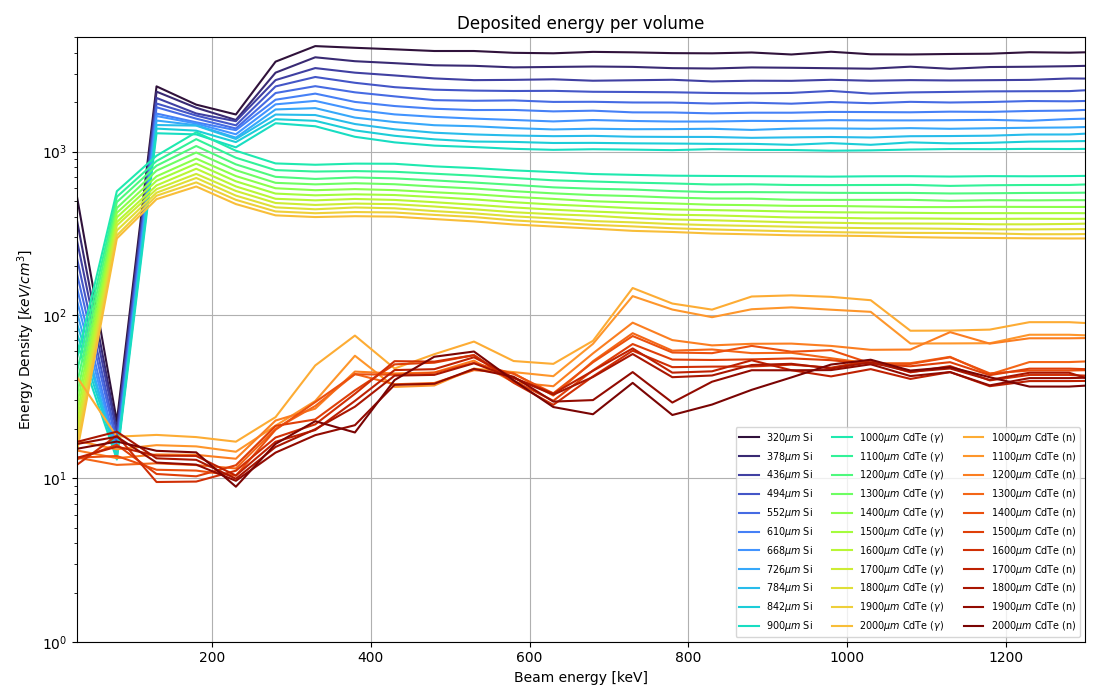
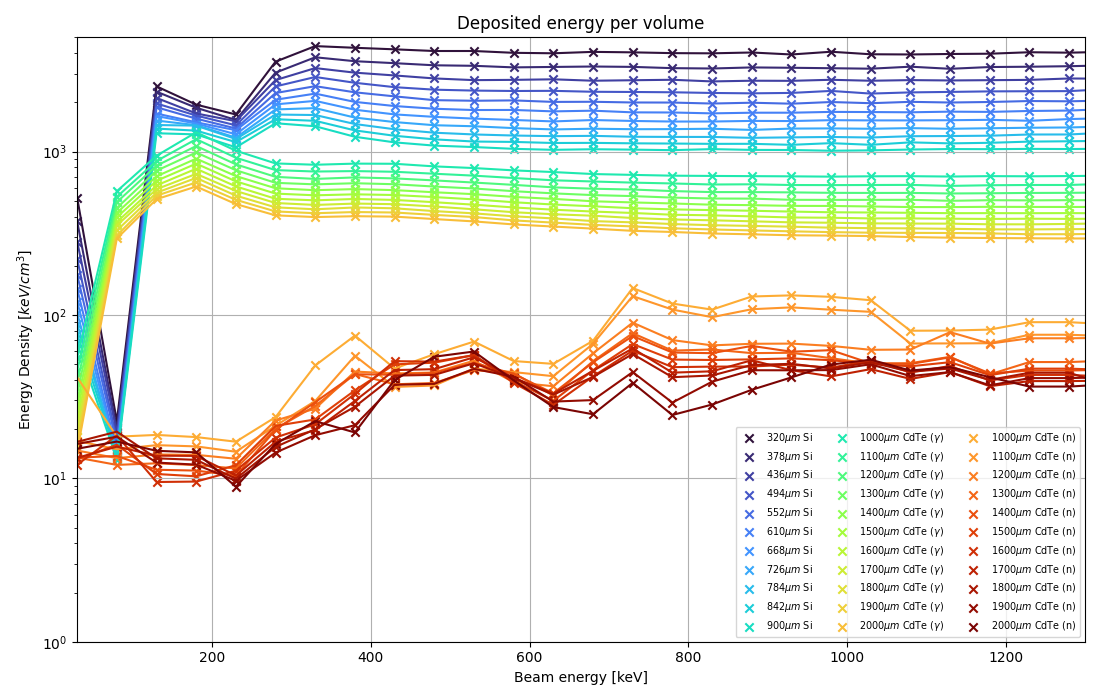
minor touch-ups

diff --git a/plot_energy_and_displacements.py b/plot_energy_and_displacements.py
@@ -24,15 +24,16 @@ def plot_displacements(results, bulk, identifier, normalization_factor, colorlis
     for b in range(len(bulk)):
         data = results[results['Thickness'] == bulk[b]]
         data = data.sort_values('Energy')
-        plt.plot(data['Energy'], data['Displacements'] / normalization_factor[b], label=str(bulk[b]) + r'$\mu m$ ' + identifier, color=colorlist[b])
+        plt.scatter(data['Energy'], data['Displacements'] / normalization_factor[b], marker='x',  label=str(bulk[b]) + r'$\mu m$ ' + identifier, color=colorlist[b])
+        plt.plot(data['Energy'], data['Displacements'] / normalization_factor[b], color=colorlist[b])
     plt.xlabel('Beam energy [keV]')
     #plt.ylabel('Displacements per atom')
-    plt.ylabel(r'Displacements/$cm³$')
+    plt.ylabel(r'Displacements  [$1/cm^3$]')
     plt.grid()
     plt.xlim(30, 1300)
     plt.ylim(ylim)
     plt.yscale('log')
-    plt.legend(fontsize='x-small', loc="center right", ncol=3, bbox_to_anchor=(1, 0.46))
+    plt.legend(fontsize='x-small', loc="center right", ncol=3, bbox_to_anchor=(1, 0.47))
     plt.title('Radiation damage')
     plt.tight_layout()
     plt.savefig(os.path.join('pics', 'displacements.png'))
@@ -41,7 +42,8 @@ def plot_energy_depositions(results, bulk, identifier, normalization_factor, col
     for b in range(len(bulk)):
         data = results[results['Thickness'] == bulk[b]]
         data = data.sort_values('Energy')
-        plt.plot(data['Energy'], data['Energydeposit'] / normalization_factor[b], label=str(bulk[b]) + r'$\mu m$ ' + identifier, color=colorlist[b])
+        plt.scatter(data['Energy'], data['Energydeposit'] / normalization_factor[b], marker='x', label=str(bulk[b]) + r'$\mu m$ ' + identifier, color=colorlist[b])
+        plt.plot(data['Energy'], data['Energydeposit'] / normalization_factor[b], color=colorlist[b])
     plt.xlabel('Beam energy [keV]')
     plt.ylabel(r'Energy Density [$keV/cm^3$]')
     plt.grid()
@@ -53,7 +55,7 @@ def plot_energy_depositions(results, bulk, identifier, normalization_factor, col
     plt.tight_layout()
     plt.savefig(os.path.join('pics', 'deposited_energies.png'))
 
-# NOTE: only works if the scored region covers the bulk onlcovers the bulk only
+# NOTE: works if the scored region covers the bulk only
 # N = N_A * n
 # N = N_A * V*rho/M
 # N = N_A * width*height*depth * rho / M
@@ -78,6 +80,12 @@ plot_energy_depositions(cdte, bulks_cdte, r'CdTe ($\gamma$)', pixel_volume_cdte,
 plot_energy_depositions(cdteneutron, bulks_cdte, 'CdTe (n)', pixel_volume_si, colorlist[22:33])
 plt.show()
 
+
+
+'''
+Create individual images of each case
+'''
+
 files = [f for f in os.listdir('.') if os.path.isfile(f) and '.dat' in f and 'doslev' not in f]
 #files = sorted(files)
 
@@ -87,14 +95,13 @@ if not os.path.exists('pics_displacement'):
 if not os.path.exists('pics_energy_deposit'):
     os.makedirs('pics_energy_deposit')
 
-
 cmap = copy.copy(mpl.cm.get_cmap('gnuplot'))
 cmap.set_under('k')
 cmap.set_over('w')
 
 failed = []
-#for f in tqdm(files):
-for f in files[:3]:
+for f in tqdm(files):
+#for f in files[:3]:
     img = np.genfromtxt(f)
     if len(img[:,3]) == 40401:
         img = img[:,2].reshape(201,201).transpose()

diff --git a/plot_fluence.py b/plot_fluence.py
@@ -15,11 +15,11 @@ for f in tqdm(files):
     fig = plt.figure()
     bulk, thickness, energy= f.split('-')
     if bulk == 'cdteneutron':
-        plt.title(f'Particle fluence: {thickness}$\mu$m CdTe bulk, {energy}keV neutron beam')
+        plt.title(fr'Particle fluence: {thickness}$\mu m$ CdTe bulk, {energy}keV neutron beam')
     elif bulk == 'cdte':
-        plt.title(f'Particle fluence: {thickness}$\mu$m CdTe bulk, {energy}keV photon beam')
+        plt.title(fr'Particle fluence: {thickness}$\mu m$ CdTe bulk, {energy}keV photon beam')
     elif bulk == 'si':
-        plt.title(f'Particle fluence: {thickness}$\mu$m silicon bulk, {energy}keV photon beam')
+        plt.title(fr'Particle fluence: {thickness}$\mu m$ silicon bulk, {energy}keV photon beam')
 
     data3 = pd.read_csv(f+'-94_tab.lis', sep='  ', skiprows=2, nrows=fluence_bins, engine='python').to_numpy()
     data3[:,0] = data3[:,0] * 1e6

diff --git a/plot_attenuation.py b/plot_attenuation.py
@@ -75,9 +75,9 @@ def plot_attenuation(results, identifier, ylim=[0,1]):
         I = list(data['Fluence2'])
         I = [i if i > sys.float_info.epsilon else np.nan for i in I]
         rel_I = np.log(np.divide(I0,I))
-        plt.scatter(data['Thickness'], rel_I, color=colors[e], marker='x')
         fit = linregress(data['Thickness'], rel_I)
-        plt.plot(data['Thickness'], data['Thickness']*fit.slope + fit.intercept, color=colors[e], label=f'{energies[e]:4}keV: CC={fit.rvalue:.3e}, SE={fit.stderr:.1e}')
+        plt.scatter(data['Thickness'], rel_I, color=colors[e], marker='x', label=f'{energies[e]:4}keV: CC={fit.rvalue:.3e}, SE={fit.stderr:.1e}')
+        plt.plot(data['Thickness'], data['Thickness']*fit.slope + fit.intercept, color=colors[e])
         coeffs.append(fit.slope) # [µ]=1/µm
     plt.xlabel(r'Bulk thickness [$\mu m$]')
     plt.ylabel('ln($I_0/I$)')
